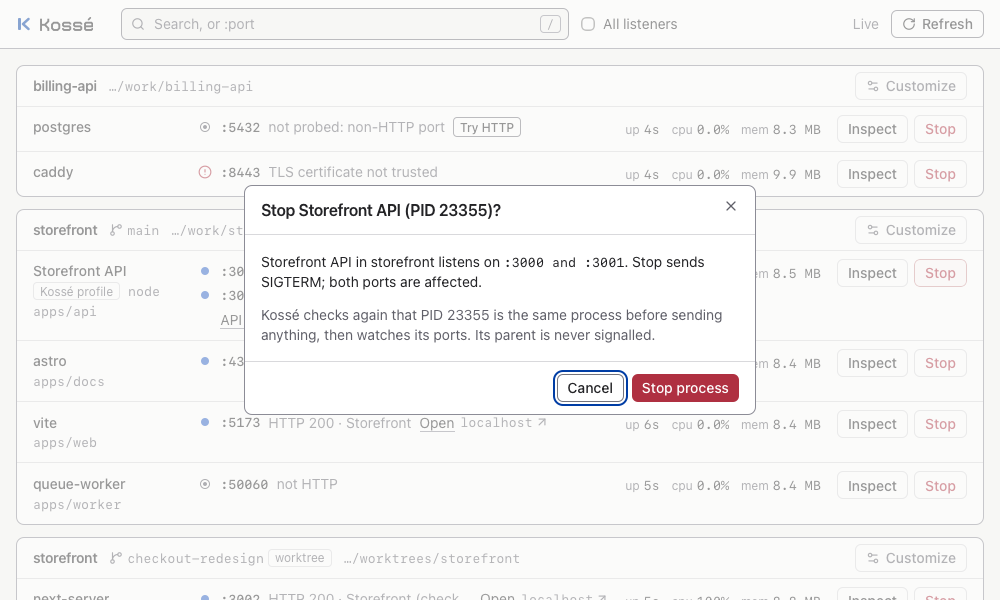
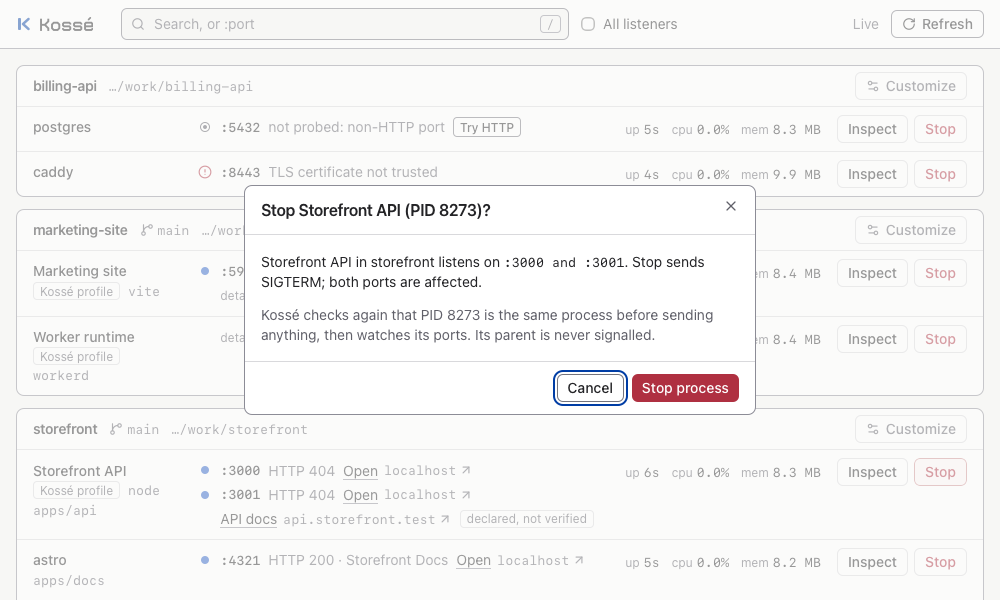
docs: S21 evidence and screenshots with the endpoint showcase
Record commands, real-window checks, deviations and what remains
unverified; regenerate the fixture screenshots, which now include the
marketing-site project; key window-test rows by the first fixture of a
name now that two fixtures are called vite.

diff --git a/scripts/window-test.ts b/scripts/window-test.ts
@@ -264,7 +264,9 @@ async function main() {
       }),
   });
   for (const fixture of Object.values(world.fixtures)) {
-    if (fixture.ports[0] !== undefined) firstPort.set(fixture.name, fixture.ports[0]);
+    // The first fixture of a name: the marketing site is a second, profiled `vite`.
+    if (fixture.ports[0] !== undefined && !firstPort.has(fixture.name))
+      firstPort.set(fixture.name, fixture.ports[0]);
   }
   try {
     // The window process starts after the app listens; its socket appears when it is ready.

diff --git a/docs/evidence/S21.md b/docs/evidence/S21.md
@@ -1,0 +1,50 @@
+# S21 evidence: endpoint names and display tiers (issue #9)
+
+Recorded 2026-10-30 on macOS, Apple silicon, on branch `endpoint-roles` (parent `b278e37`). Design: per-endpoint `name`, `show: summary | details` and `probePath` under `endpoints`, `otherEndpoints`, `match.process` and one inference (port 9229), as in [project metadata](../../blueprint/project-metadata.md#endpoints-names-and-display-tiers-s21). The issue's proposed app/internal/debug roles were not adopted.
+
+## Acceptance (issue #9) and where it holds
+
+| Criterion                                                                        | Evidence                                                                                                                                                                                                                                                                                                                                  |
+| -------------------------------------------------------------------------------- | ----------------------------------------------------------------------------------------------------------------------------------------------------------------------------------------------------------------------------------------------------------------------------------------------------------------------------------------- |
+| Port 3000 can be the entry point without every listener of its process being one | `endpoints::a_summary_endpoint_is_the_one_launch_target_of_its_service`: one fixture, two ports both answering HTTP, profile lists one as summary and `otherEndpoints: details`; `kosse url web` prints the summary port (before S21 this was `ambiguous`), `kosse url <other port>` answers, `list` prints `summary · Site` / `details`. |
+| Internal/debug endpoints are marked and excluded from launch targets             | Same test; tray `menu::tests::open_is_offered_only_for_summary_endpoints`; Playwright `details endpoints stay visible and muted, are never opened, and Inspect says why` (WebKit and Chromium); real window below.                                                                                                                        |
+| An expected internal HTTP error does not imply the app is broken                 | Details endpoints render without the failed marker (Playwright asserts no `svg.text-failed` on the workerd row whose ports answer 500); the service `probePath` never targets a details endpoint (`endpoints::health_paths_follow_the_endpoint_they_check`).                                                                              |
+| Visible in dashboard and CLI                                                     | Row details line, Inspect tier + provenance, `SHOW` column, `--json` `Endpoint.display`.                                                                                                                                                                                                                                                  |
+| Restarting the stack needs no reclassification                                   | `endpoints::a_process_match_keeps_changing_ports_in_details`: a fixture named `workerd` (via `executable_name`), matched by `match.process` + `otherEndpoints: details`, stopped and restarted on new ephemeral ports stays all-details with no profile edit; `kosse url worker` exits 1 naming its ports, `kosse url <port>` answers.    |
+
+## Tests added (each guards a rule)
+
+- Core (`profiles::effective`): display precedence (endpoint entry > otherEndpoints > 9229 inference > default; unmatched and ambiguous get only the inference); probe-path selection (endpoint path on any tier, service path on summary endpoints only, still narrowed by `match.port`); launch targets are the summary endpoints; an entry naming `process` takes its process from a directory-wide entry while equally specific entries stay ambiguous; a re-match starts from the inference.
+- Core (`profiles::validate`): endpoint keys `0`, `03000`, `+1`, `-1`, `70000`, `65536`, ``, ` 3000`, `3e3`, `0x10` refused at `services.web.endpoints.<key>`; empty endpoint entry; unknown `show` (endpoint and `otherEndpoints`), `otherEndpoints: {}`; more than 64 endpoints; duplicate port keys; `match` with no criterion; `match.process` label rules and length. `profiles::document`: unknown fields of an endpoint entry and of `otherEndpoints` survive a dashboard rewrite.
+- Real entry point (`crates/app/tests/endpoints.rs`, owned `kosse-fixture` processes, `KOSSE_CONFIG_DIR`, `--probe-only`): the four integration tests named above plus `a_process_entry_takes_its_process_from_a_directory_entry` (one-shot `list --json` and `profile set --dry-run` exit 0, each process one match). The probe-path test reads each fixture's recorded requests: `GET /own-health` on the endpoint with its own path (a details one), `GET /` on a details endpoint despite the service `probePath`, `GET /service-health` on an unlisted summary endpoint.
+- Web: `model/endpoints.test.ts` (launch split, provenance text), `customize-dialog.test.ts` (endpoints keyed by port, a bare port written as `show: summary`, empty object when cleared, duplicate port refused, central endpoints/process/otherEndpoints round-trip, kosse.json endpoints not copied).
+
+A real compatibility bug was caught by an existing test: `list_here_lists_only_the_callers_worktree` reads the installed instance on 47831, whose 0.2.1 snapshot lacks the new `ConfiguredService` fields; they now default (`serde(default)`) like `Endpoint.display`.
+
+## Commands run
+
+| Command                                                | Result                                                                                                                                                 |
+| ------------------------------------------------------ | ------------------------------------------------------------------------------------------------------------------------------------------------------ |
+| `cargo nextest run --workspace --test endpoints`       | 4 passed                                                                                                                                               |
+| `bun run check`                                        | exit 0: fmt, oxlint, clippy, tsc, Vitest 42/42, budget `50.80 kB of 51.00 kB`, nextest 268/268, doctests, release build                                |
+| `bun run test:e2e`                                     | 30 passed, 2 skipped (screenshot spec on Chromium)                                                                                                     |
+| `bun run test:window`                                  | 61 passed, 0 failed (screen unlocked)                                                                                                                  |
+| `bun run screenshots`                                  | regenerated `docs/screenshots/` (fixture data only; the dashboard now includes the `marketing-site` project; its ports were ephemeral on this machine) |
+| `bun run app -- start/eval/shot/resize/click/key/stop` | see below                                                                                                                                              |
+
+## Real window (`bun run app`)
+
+Filtered to `marketing-site`. At 1180x780: the site row shows `:<port> Site HTTP 200 … Open` and a muted `details :<port> Inspector HTTP 200` line; the workerd row shows only `details :<p1> HTTP 500 · :<p2> HTTP 500`, no Open, no failed marker. A real click on Inspect opened the sheet: each endpoint has its tier tag and `Shown in the summary · Kossé profile: endpoints` / `in details, never a launch target · Kossé profile: endpoints`. At 560x700: no horizontal scroll (`scrollWidth 560 = innerWidth`); the row stacks; the Customize Endpoints editor puts the probe path on a second line per row. Real clicks on Customize, Add endpoint, Remove endpoint and Save: the dialog closed and the saved profile kept `match.process`, both endpoints and `otherEndpoints` unchanged. The window run found one layout bug, fixed before commit: with no endpoint rows the `Endpoints` label sat inline with the Add button. The `show` selects open native popups, which `bun run app -- click` does not drive; their values were checked through the round-trip and unit tests instead.
+
+## Deviations and decisions
+
+- **Specificity rule.** The design did not say how a `cwd`-only entry and a `process` entry interact; under the existing rule a workerd child under both would be ambiguous. Among the entries matching a process, those naming its `process` take it from those that do not; equally specific entries stay ambiguous. Documented in project-metadata and the matching rules agents read.
+- **Bundle budget.** main left 0.16 kB of the 50 kB budget. After dropping the modulepreload polyfill (0.29 kB, unused with one chunk) and trimming copy, S21's dashboard surface still costs about 1.25 kB, so the bundle is 50.80 kB. Commit `build(web): raise the bundle budget to 51 kB for S21` is separate so the owner can decide; without it `check` fails on the budget. Even without the Customize editor (about 0.3 kB) the row and Inspect alone exceed 50 kB.
+- **Customize client checks.** Port and probe-path syntax of endpoint rows are left to the server's validator (its message names `services.<id>.endpoints.<port>`); the dialog checks only duplicate ports, which a JSON object would silently merge.
+- **Fixture world.** Two fixtures named `vite` now coexist; the copy step used to overwrite the running executable (macOS then kills it), so copies are made with `COPYFILE_EXCL` and reused, and `scripts/window-test.ts` keys rows by the first fixture of a name.
+
+## Not verified
+
+- The native tray menu on a real desktop (human-only, as in S08): `menu::Model` is unit-tested; nobody looked at the AppKit menu.
+- A real Vite + Cloudflare plugin + workerd stack: everything above ran on fixtures named like it. That workerd's OS process name is exactly `workerd` and that its ports are all secondary are taken from issue #9's report, not observed here.
+- `bun run test:package` (no packaging change).
